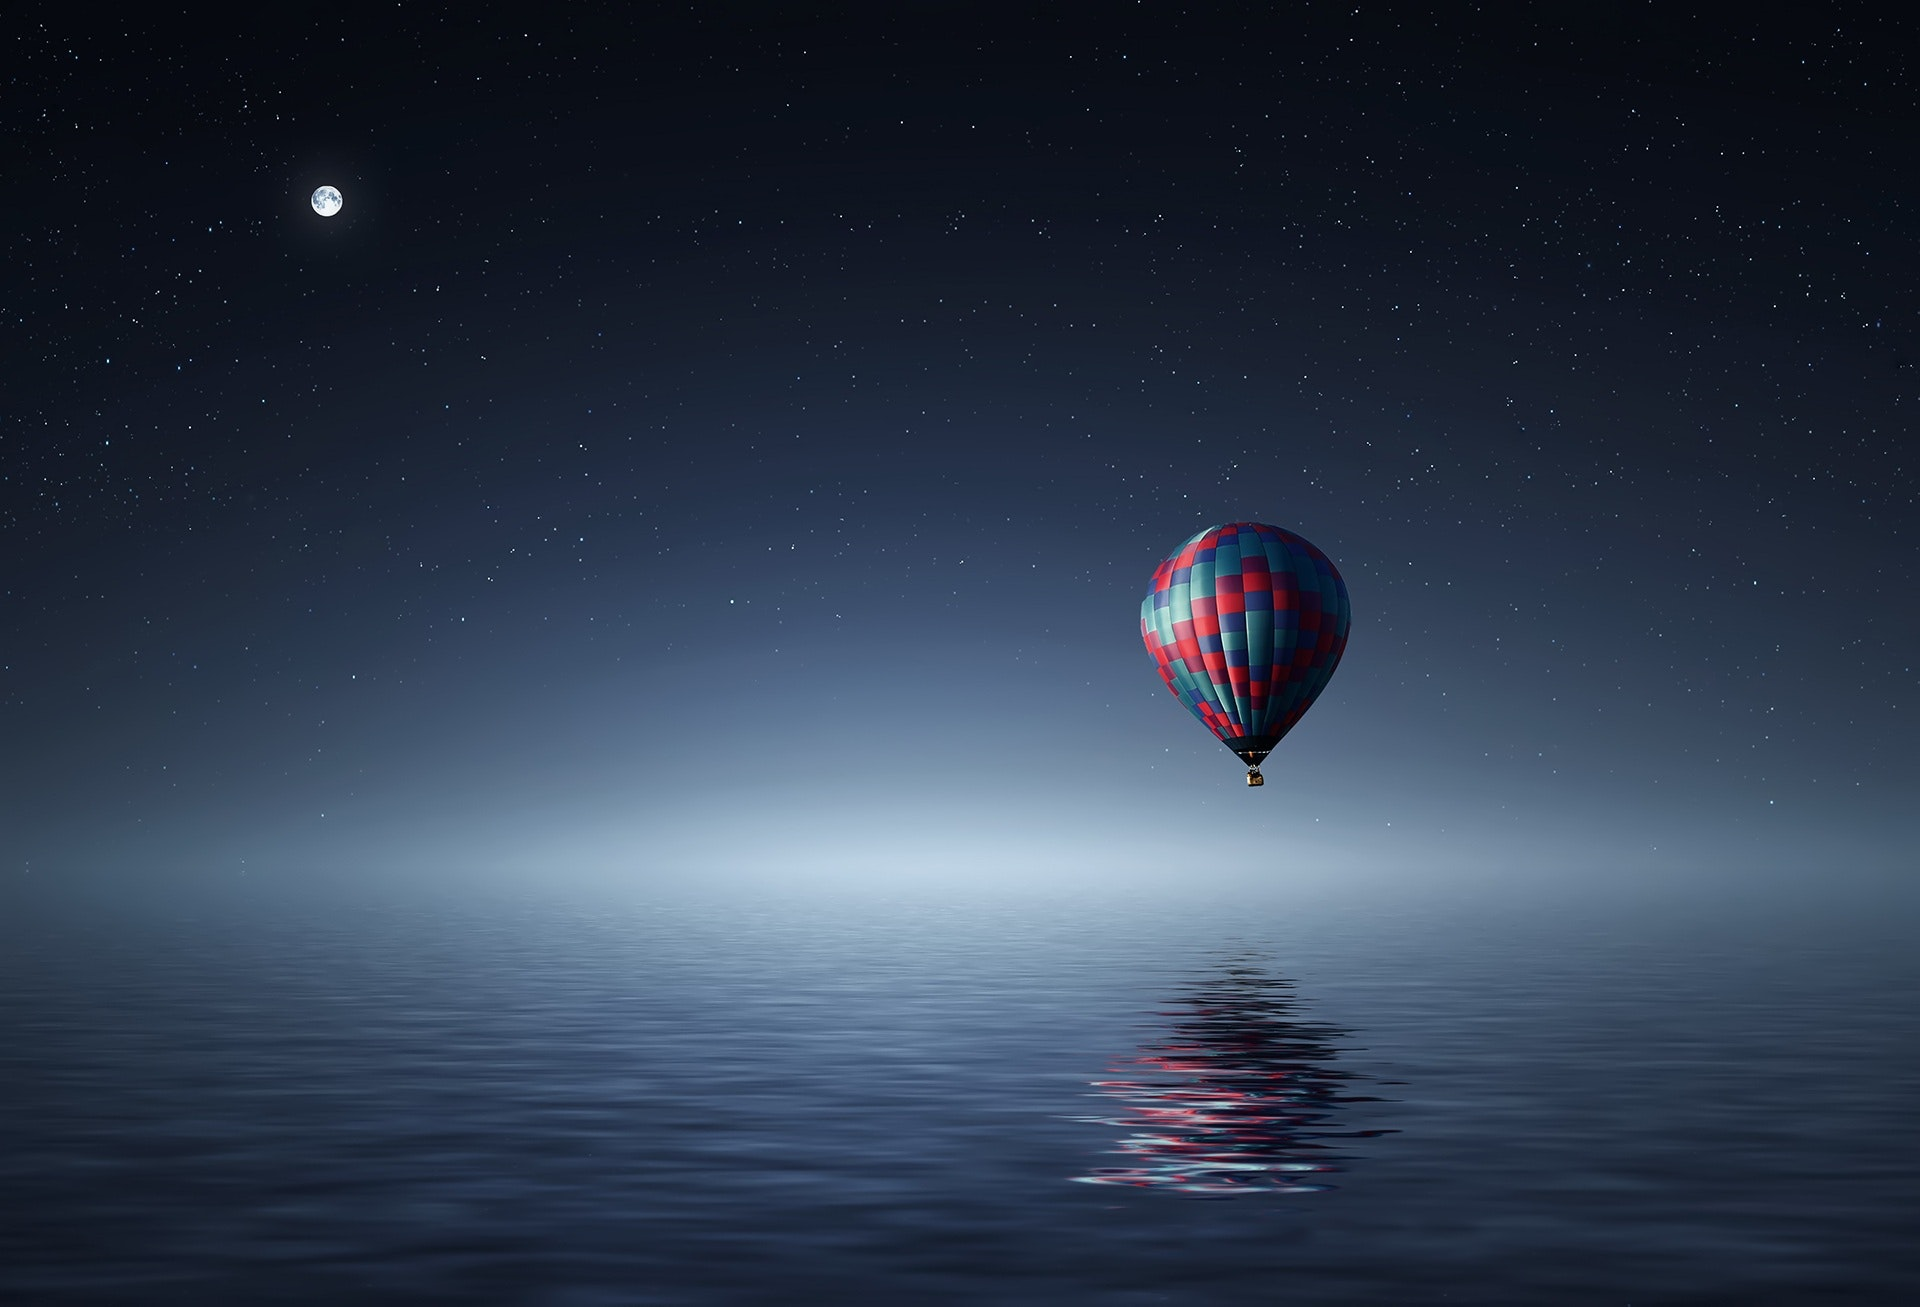
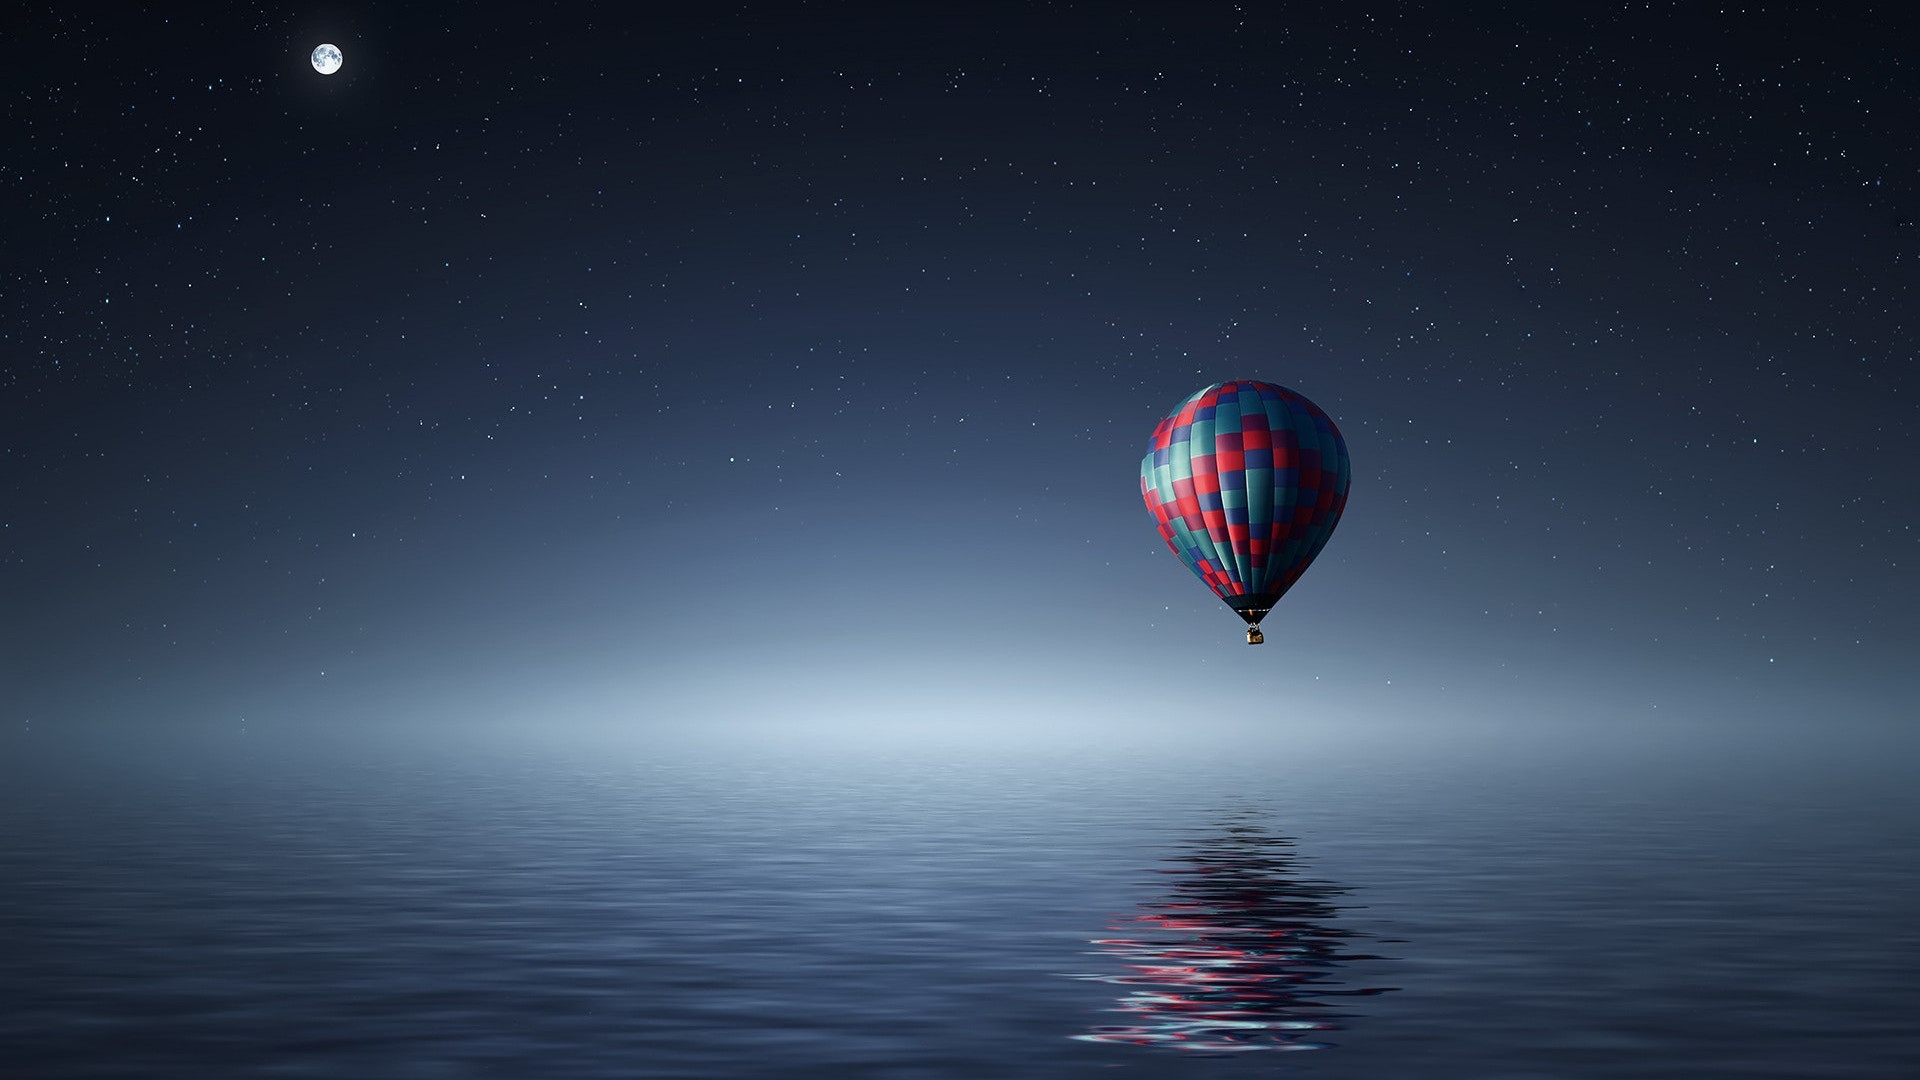
adding gitignore and deleting unused images and commented out lines

diff --git a/css/style.css b/css/style.css
@@ -73,11 +73,6 @@ nav > ul.show {
   max-height: 130px;
 }
 
-/* nav > ul > li {
-  padding: 10px;
-  border-bottom: 1px solid rgba(255,255,255,0.3);
-} */
-
 nav > ul > li > a {
   display: inline-block;
   width: 100%;
@@ -127,7 +122,7 @@ a.anchor {
   position: relative;
   width: 100%;
   height: 100%;
-  background-image: url('../img/night-balloon_2.jpg');
+  background-image: url('../img/night-balloon.jpg');
   background-size: cover;
   background-repeat: no-repeat;
   background-position: 60% 50%;
@@ -161,10 +156,6 @@ a.anchor {
     font-size: 1.2rem;
   }
 }
-
-/* #about, #projects, #contacts {
-  padding: 30px 0;
-} */
 
 .container {
   width: 100%;
@@ -366,7 +357,6 @@ a.anchor {
 @media (min-width: 576px) {
   .prev-next-btn {
     top: 111.335px;
-    /* transform: none; */
     padding: 16px;
     border-radius: 8px;
   }
@@ -383,14 +373,12 @@ a.anchor {
 @media (min-width: 768px) {
   .prev-next-btn {
     top: 135.47px;
-    /* transform: none; */
   }
 }
 
 @media (min-width: 992px) {
   .prev-next-btn {
     top: 155.7px;
-    /* transform: none; */
   }
 
   .project-img {
@@ -409,7 +397,6 @@ a.anchor {
 @media (min-width: 1140px) {
   .prev-next-btn {
     top: 164.47px;
-    /* transform: none; */
   }
 
   .project-img {
@@ -457,7 +444,6 @@ a.anchor {
 
 #contacts {borderr: 1px solid black;
   background-color: #9c9db1;
-  /* padding: 60px 0 30px 0; */
   padding-top: 60px;
 }
 
@@ -474,10 +460,6 @@ a.anchor {
 .contact-item {borderr: 1px solid green;
   margin:25px;
 }
-
-/*.contact-item:nth-child(1) {text-align: left;}
-.contact-item:nth-child(2) {text-align: center;}
-.contact-item:nth-child(3) {text-align: right;}*/
 
 .contact-item a {borderr: 1px solid purple;
   text-decoration: none;

diff --git a/js/main.js b/js/main.js
@@ -11,19 +11,11 @@ toggleMenu.addEventListener('click', function() {
     menuList.classList.remove('show');
     if (window.pageYOffset < 63) {
       document.querySelector('nav').style.backgroundColor = 'transparent';
-      /*document.querySelector('nav').style.color = '#aaa';*/
-      for (let i = 0; i < menuItems.length; i++) {
-        /*menuItems[i].style.borderBottom = '1px solid rgba(255,255,255,0.3)';*/
-      }
     }
   } else {
     menuList.classList.add('show');
     if (window.pageYOffset < 63) {
       document.querySelector('nav').style.backgroundColor = 'rgba(0,0,0,0.8)';
-      /*document.querySelector('nav').style.color = '#aaa';*/
-      for (let i = 0; i < menuItems.length; i++) {
-        /*menuItems[i].style.borderBottom = '1px solid rgba(255,255,255,0.3)';*/
-      }
     }
   };
 })
@@ -46,17 +38,9 @@ window.onresize = function() {
 window.onscroll = function() {
   if (window.pageYOffset >= 63) {
     document.querySelector('nav').style.backgroundColor = 'rgba(0,0,0,0.8)';
-    /*document.querySelector('nav').style.color = '#aaa';*/
-    for (let i = 0; i < menuItems.length; i++) {
-      /*menuItems[i].style.borderBottom = '1px solid rgba(255,255,255,0.3)';*/
-    }
   } else {
     if (menuList.classList[1] !== 'show') {
       document.querySelector('nav').style.backgroundColor = 'transparent';
-      /*document.querySelector('nav').style.color = '#aaa';*/
-      for (let i = 0; i < menuItems.length; i++) {
-        /*menuItems[i].style.borderBottom = '1px solid rgba(255,255,255,0.3)';*/
-      }
     }
   }
 }

diff --git a/index.html b/index.html
@@ -9,7 +9,7 @@
   <meta name="author" content="Marco">
 	<meta name="description" content="Personal website">
 
-  <link rel="stylesheet" href="https://cdnjs.cloudflare.com/ajax/libs/normalize/7.0.0/normalize.min.css">  <!-- normlize css -->
+  <link rel="stylesheet" href="https://cdnjs.cloudflare.com/ajax/libs/normalize/7.0.0/normalize.min.css">  <!-- normalize css -->
   <link href="https://fonts.googleapis.com/css?family=Roboto|Gloria+Hallelujah" rel="stylesheet">
   <link rel="stylesheet" type=" text/css" href="css\style.css" />
 
@@ -38,7 +38,6 @@
 
 
   <div id="section1">
-    <!-- <img src="./img/night-balloon.jpg" alt=""> -->
     <div id="section1-text">
       <h4>Hello World !</h4>
       <p>My name is Marco, <br> welcome to my little website</p>
@@ -50,11 +49,6 @@
   <div id="about">
     <a class="anchor" id="about-a"></a>
     <div class="container">
-    <!--  <div id="about-me">
-        <h2>My name is Marco Bosa</h2>
-        <p>I'm a 26 years old guy from Milan, Italy. <br>I'm a self-taught coder who's always been fascinated with development of websites and
-          applications and I'm now trying to make that interest into a career.</p>
-        </div>-->
       <h3>In my projects I'm using</h3>
       <ul id="skill-list">
         <li class="skill">
